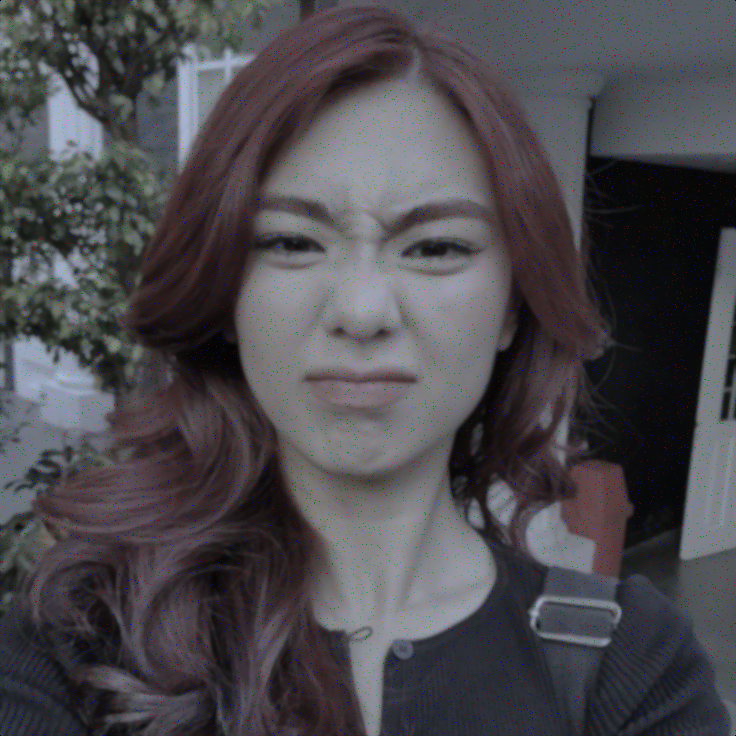
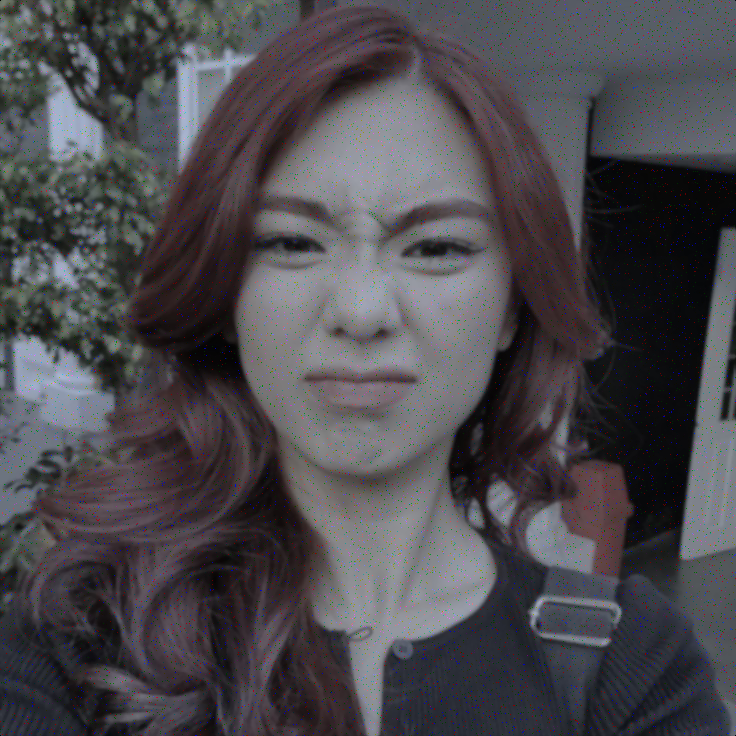
commit

diff --git a/matlab/elective_3_lab_4.m b/matlab/elective_3_lab_4.m
@@ -1,39 +1,50 @@
 % Acquire the Image
-img = imread("images\mikha_malabo.jpeg");
+img = imread("..\images\mikha.jpeg");
+
+gray_img = rgb2gray(img);
 
 % Show the original image
 figure(1);
-imshow(img); 
+imshow(gray_img); 
 title("Original Image");
 
-% Use Gaussian filter for Image Restoration
-% Create a Gaussian filter
-gaussian_filter = fspecial('gaussian', 7, 10);
+% Simulate and Restore Motion Blur Without Noise
+PSF = fspecial('motion', 21, 21);
+iDouble = im2double(gray_img);
+blurred = imfilter(iDouble, PSF, 'conv', 'circular');
+figure (2);
+imshow(blurred); title('Blurred Image')
 
-% Apply the filter to the image
-gaussian_img = imfilter(img, gaussian_filter, "symmetric", "conv");
+% Restore the image using the Wiener Filter
+weiner = deconvwnr(blurred, PSF);
 
-% Show the filtered image
-figure(2);
-imshow(gaussian_img); 
-title("Gaussian Blurred Image");
-
-% Convert image to double precision for further processing
-Idouble = im2double(img);
-
-% Estimate the noise variance (you can set this manually or calculate based on your image)
-noise_var = 0.001;
-
-% Calculate the signal variance
-signal_var = var(Idouble(:));
-
-% Calculate the Noise-to-Signal Ratio (NSR)
-NSR = noise_var / signal_var;
-
-% Deblur the image using the Wiener deconvolution
-deblurred_img = deconvwnr(im2double(gaussian_img), gaussian_filter, NSR);
-
-% Show the deblurred image
+% Show the restored image
 figure(3);
-imshow(deblurred_img); 
-title("Deblurred Image");
+imshow(weiner); title('Restored Image');
+
+% Parameter Modification
+
+% Simulate and Restore Motion Blur and Gaussian Noise
+noise_mean = 0;
+noise_var = 0.0001;
+blurred_noisy = imnoise(blurred,'gaussian',noise_mean,noise_var);
+
+% Show the blurred and noisy image
+figure(4);
+imshow(blurred_noisy); title('Blurred and Noisy Image');
+
+% Restore the image using the Wiener Filter
+weiner2 = deconvwnr(blurred_noisy,PSF);
+
+% Show the restored image (NSR = 0)
+figure(5)
+imshow(weiner2); title('Restoration of Blurred Noisy Image (NSR = 0)')
+
+% Restore the image using the Wiener Filter with a more realtisc value
+signal_var = var(iDouble(:));
+NSR = noise_var / signal_var;
+weiner3 = deconvwnr(blurred_noisy,PSF,NSR);
+
+% Show the restored image (Estimated NSR)
+figure(6)
+imshow(weiner3); title('Restoration of Blurred Noisy Image (Estimated NSR)')

diff --git a/matlab/elective_3_lab_3.m b/matlab/elective_3_lab_3.m
@@ -158,7 +158,3 @@ figure(12)
 imshowpair(img_noise, median_img_1, 'montage'); title("Median Filtered Image");
 imwrite(median_img_1,'..\processed_images\lab-3\greyscale\mikha_median.png', 'png');
 
-
-
-
-
